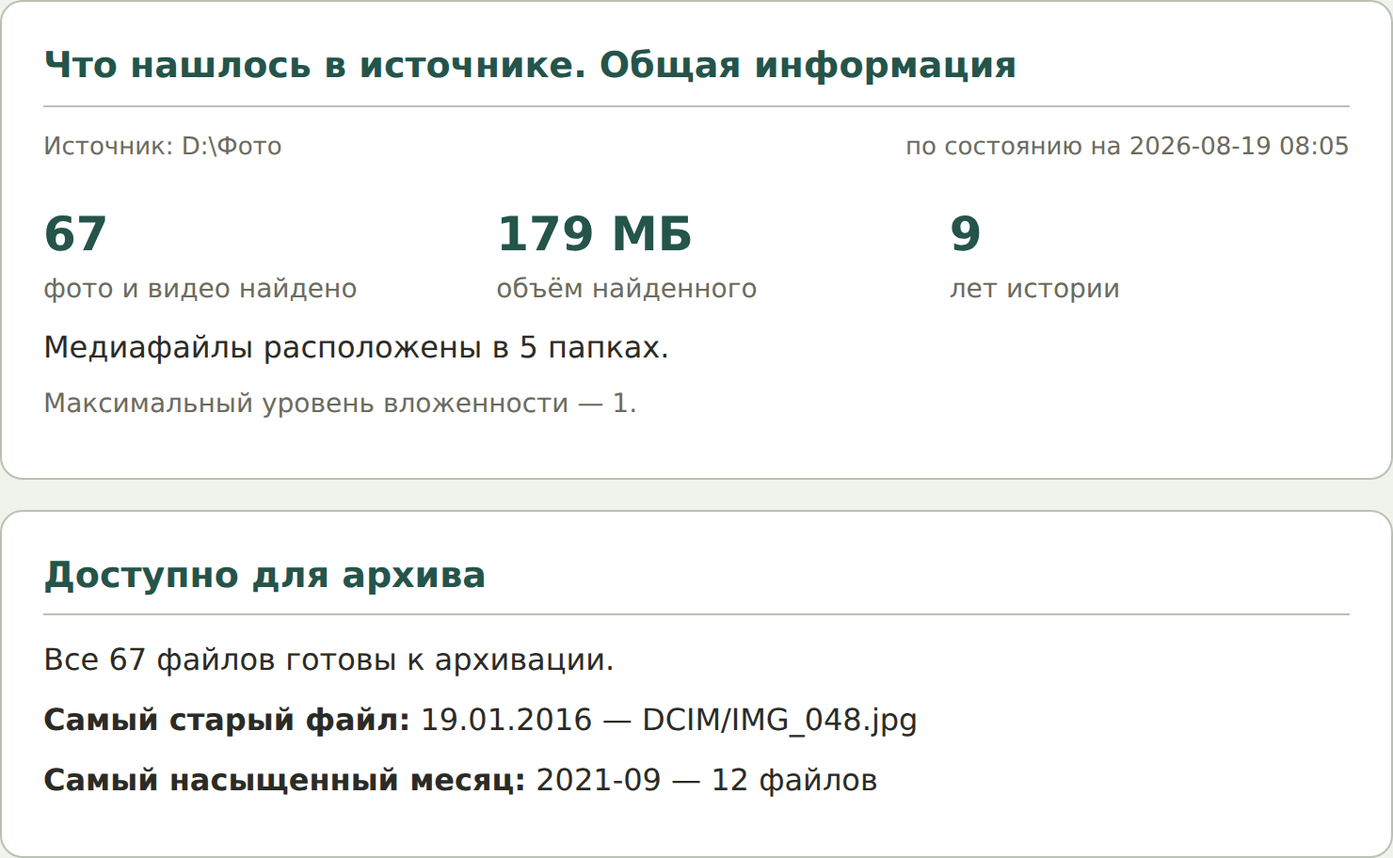
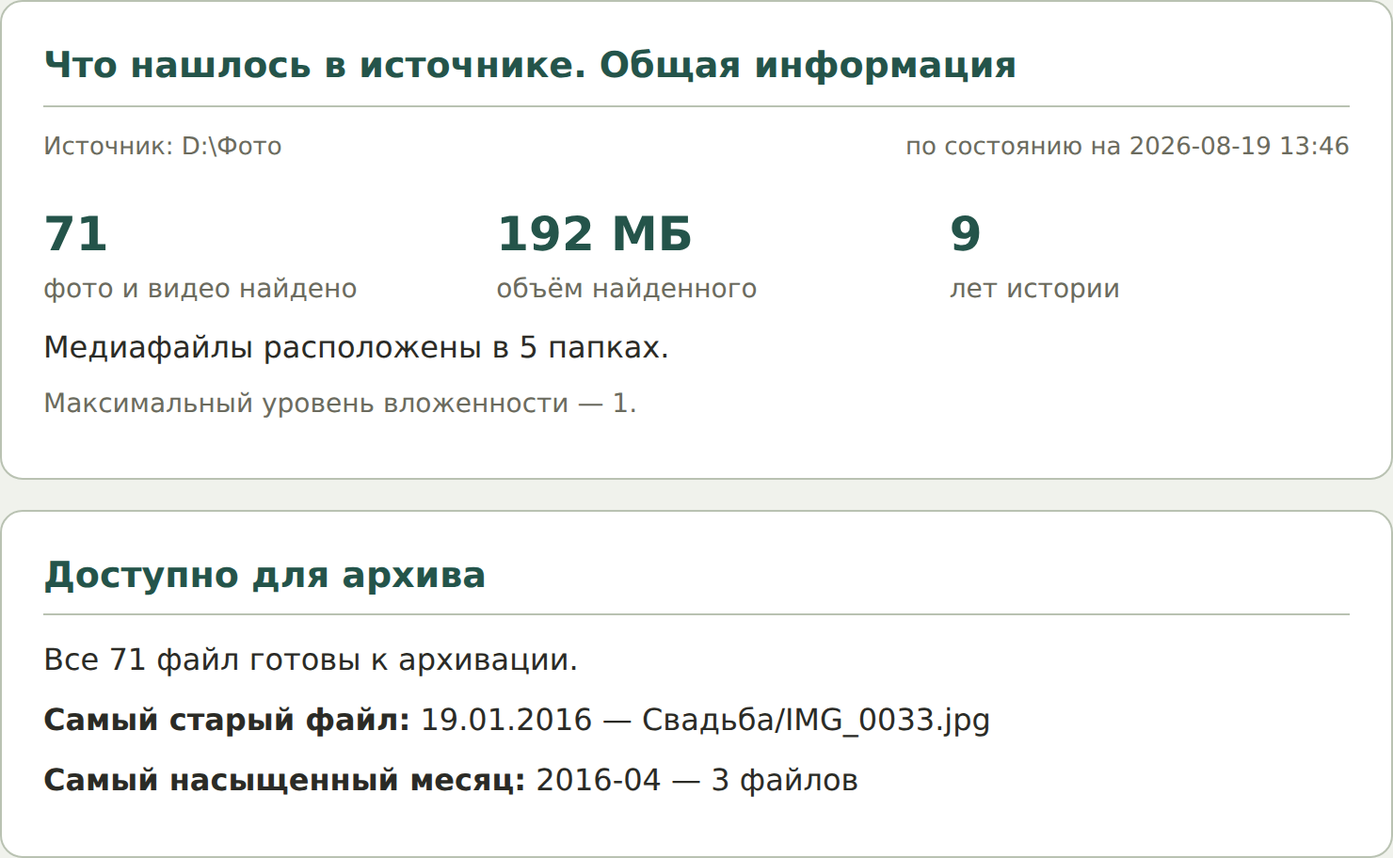
Пересобрать демо-отчёт: добавить видео/RAW в синтетику (живая находка пользователя)
Прежний report_sanitized.html/report-preview.png состояли только из JPEG (67 файлов,
100% фото) -- диаграммы "Тип медиа"/"Объём по категориям"/"Топ форматов" выглядели
неинформативно, один сплошной сегмент. Синтетический источник пересобран с добавлением
10 видео (MP4) и 10 RAW (DNG) -- 71 файл, реалистичное распределение по категориям.
Тот же пайплайн (analyze на актуальном dev-коде -> headless Chromium -> санитизация
пути SOURCE). Гео-формулировки (город на английском, страна на русском) не трогали --
по прямому решению пользователя, это поведение программы, не демо-артефакт.

Claude-Session: https://claude.ai/code/session_01TFr933xd6HK2sF22V6mAZi

diff --git a/report_sanitized.html b/report_sanitized.html
@@ -194,8 +194,8 @@ p { margin: 8px 0; }
 <body>
 <div class="sheet">
 <div class="report-brand"><a class="report-brand-logo" href="https://vo1012.github.io/PhotoArchive/" aria-label="PhotoArchive — сайт программы"><svg role="img" aria-label="PhotoArchive" xmlns="http://www.w3.org/2000/svg" viewBox="69 247 1240 245"><path fill="#24544A" d="M217.766 257.515C236.668 256.396 238.047 272.721 238.552 287.131C231.295 289.414 222.083 291.346 214.616 292.865C214.538 290.824 214.555 286.886 213.662 285.2C212.831 283.668 211.372 282.574 209.668 282.206C205.701 281.365 112.207 305.655 105.91 309.695C104.723 311.245 103.509 315.064 103.465 316.951C102.711 349.347 101.528 382.191 102.714 414.591C103.149 426.483 104.16 429.815 115.601 433.284C133.974 438.855 152.785 443.171 171.328 448.17C183.083 450.788 195.518 456.839 207.4 457.926C217.287 458.831 214.725 441.448 214.41 435.933C201.162 433.052 160.331 425.436 151.118 420.448C148.915 419.256 148.047 418.238 147.354 415.796C146.482 412.72 146.11 409.421 145.941 406.232C145.422 396.432 144.595 324.48 147.313 320.102C149.67 316.305 154.326 314.033 158.329 312.474C170.903 307.576 185.193 305.436 198.318 302.301L268.24 285.099C277.053 282.65 296.386 275.367 303.201 283.235C306.782 293.822 305.573 319.941 305.562 332.33L305.469 396.996C305.46 412.997 306.233 429.641 305.054 445.492C304.127 457.95 283.7 452.149 276.601 450.579C263.765 447.741 251.086 444.3 238.423 440.979C238.533 449.781 240.061 466.306 235.521 473.788C230.948 481.327 221.927 483.604 213.659 481.402C174.472 470.962 135.43 459.921 96.3845 448.98C76.6695 443.456 79.1011 425.03 79.2176 408.863L79.4179 376.099L79.209 335.907C79.1305 323.293 76.4228 295.711 90.9296 289.864C97.1259 287.366 106.644 285.091 113.247 283.371L152.45 273.512C170.698 268.955 200.094 260.41 217.766 257.515ZM165.376 329.188C163.169 345.182 164.353 383.218 164.593 400.712C177.518 388.249 190.368 375.708 203.142 363.092C206.995 363.449 223.685 381.015 227.627 384.91L237.753 375.481C254.271 390.714 270.355 406.329 287.01 421.484L286.997 349.256C287.019 341.907 288.4 303.683 285.215 299.646C283.351 298.68 282.578 298.915 280.479 299.045L210.386 316.64C199.416 319.359 174.614 324.929 165.376 329.188ZM210.071 401.359L216.091 395.631C218.012 393.899 220.44 391.583 222.405 390.009C217.733 385.402 211.041 378.419 206.008 374.602C207.333 382.991 209.154 393.052 210.071 401.359Z"/><path fill="#24544A" d="M249.721 324.857C258.677 323.037 267.412 328.822 269.234 337.778C271.055 346.733 265.273 355.471 256.318 357.294C247.361 359.118 238.621 353.333 236.799 344.375C234.977 335.417 240.763 326.678 249.721 324.857Z"/><path fill="#24544A" d="M427.039 316.155L427.514 316.136C450.662 315.29 480.502 314.655 487.21 342.958C487.773 345.336 488.041 347.947 488.077 350.388C488.307 359.814 484.741 368.937 478.181 375.708C465.818 388.296 448.734 386.692 432.52 386.683L426.459 386.657L426.554 421.313L406.485 421.295L406.393 316.477L427.039 316.155ZM426.567 369.687C439.205 369.809 451.881 371.394 462.644 364.333C468.66 356.488 470.512 345.544 461.812 338.791C453.811 332.58 436.309 333.758 426.553 334.306L426.567 369.687Z"/><path fill="#24544A" d="M613.719 345.677C635.34 343.179 654.952 358.53 657.72 380.119C660.489 401.709 645.385 421.512 623.833 424.551C609.65 426.55 595.487 420.766 586.758 409.409C578.029 398.052 576.083 382.877 581.664 369.685C587.245 356.492 599.49 347.321 613.719 345.677ZM622.523 406.818C634.38 404.478 642.094 392.969 639.755 381.111C637.416 369.254 625.909 361.538 614.052 363.876C602.193 366.214 594.476 377.724 596.816 389.583C599.155 401.442 610.665 409.159 622.523 406.818Z"/><path fill="#24544A" d="M750.441 346.263C772.043 343.238 791.981 358.369 794.882 379.989C797.783 401.609 782.538 421.461 760.903 424.237C739.443 426.992 719.788 411.897 716.911 390.452C714.033 369.006 729.014 349.263 750.441 346.263ZM758.877 406.512C770.6 404.849 778.778 394.03 777.181 382.297C775.583 370.564 764.81 362.325 753.069 363.857C741.236 365.401 732.917 376.279 734.527 388.105C736.138 399.931 747.061 408.188 758.877 406.512Z"/><path fill="#A85A2A" d="M858.662 316.135L867.39 316.102C871.238 323.63 874.81 332.871 877.974 340.729C888.852 367.749 901.137 394.384 911.879 421.439C905.115 421.499 898.35 421.514 891.586 421.486C879.963 394.318 869.01 366.556 857.235 339.676C845.434 365.82 834.567 394.604 822.809 421.38L802.296 421.329C817.594 386.444 832.63 351.445 847.403 316.335L858.662 316.135Z"/><path fill="#24544A" d="M495.912 316.488L514.568 316.506C514.907 329.734 514.667 344.021 514.698 357.335C522.547 350.397 528.457 346.861 539.155 346.582C565.716 345.892 566.06 370.174 565.791 389.949C565.649 400.37 565.621 410.945 565.51 421.274L546.952 421.28L546.975 393.911C547.052 382.694 549.16 363.917 532.988 363.837C527.945 363.798 523.092 365.766 519.501 369.307C511.801 377.035 514.538 408.713 514.477 421.299L495.871 421.356L495.912 316.488Z"/><path fill="#A85A2A" d="M1257.09 347.53C1259.27 347.346 1261.46 347.228 1263.65 347.177C1290.08 346.49 1298.83 367.857 1299.37 390.455L1245.11 390.51C1251.97 412.543 1268.65 412.433 1285.44 400.324L1296.19 410.916C1273.34 430.63 1239.32 428.953 1229.09 397.822C1225.74 387.694 1226.63 376.645 1231.54 367.177C1237.2 356.33 1245.84 351.006 1257.09 347.53ZM1245.08 377.871L1269.21 377.766L1282.09 377.704C1276.7 364.956 1272.95 361.146 1258.37 362.291C1250.48 366.368 1248.11 369.365 1245.08 377.871Z"/><path fill="#A85A2A" d="M1040.68 316.469L1058.71 316.426L1058.86 357.01C1069.76 346.625 1089.23 341.476 1099.96 353.084C1112.13 366.256 1108.11 404.142 1107.96 421.315L1090.48 421.337L1090.42 392.708L1090.43 391.884C1090.52 385.035 1090.64 369.628 1085.73 366.979C1065.07 355.823 1056.88 373.247 1058.02 390.707C1058.76 402 1058.1 412.598 1058.15 421.307L1040.76 421.365C1040.52 386.4 1040.49 351.434 1040.68 316.469Z"/><path fill="#A85A2A" d="M328.581 295.646C339.189 295.431 341.166 299.229 341.175 309.705C341.214 352.095 341.962 394.73 340.891 437.082C340.825 439.693 336.68 442.401 334.62 443.767C324.059 444.523 322.032 439.624 321.909 430.032C321.443 393.689 321.619 357.312 321.555 320.964C321.545 315.13 321.609 309.034 322.283 303.253C322.728 299.496 325.776 297.607 328.581 295.646Z"/><path fill="#A85A2A" d="M1147.39 348.717L1166.82 348.613C1173.54 363.377 1181.21 384.713 1187.31 400.225C1194.06 387.299 1202.98 363.129 1208.73 348.762L1227.94 348.746L1221.17 364.681C1213.35 383.677 1205.22 402.542 1196.77 421.267L1178.4 421.329C1167.78 397.824 1157.51 372.57 1147.39 348.717Z"/><path fill="#24544A" d="M674.568 330.086L693.307 330.108L693.386 348.805L712.371 348.739C712.574 353.858 712.447 359.509 712.428 364.677C706.047 364.566 699.666 364.543 693.285 364.607C693.326 373.52 692.823 382.432 692.717 391.347C692.661 396.066 692.949 401.778 697.349 404.628C701.959 407.614 706.993 405.927 711.941 404.883L712.236 414.247L712.328 414.856C714.55 429.997 684.149 423.191 680.101 417.45C672.034 406.012 674.371 378.28 674.528 364.835L663.314 364.699L663.191 348.836L674.6 348.699L674.568 330.086Z"/><path fill="#A85A2A" d="M1000.92 346.925C1013.3 344.942 1022.93 351.82 1031.63 359.396C1027.97 363.176 1024.33 367.435 1020.83 371.4C1018.88 369.818 1016.92 368.299 1014.89 366.823C998.87 355.188 979.398 373.255 983.968 390.756C985.628 397.111 988.237 401.443 993.798 405.207C1002.99 411.428 1012.52 404.445 1020.95 400.736C1021.37 400.555 1022.54 401.585 1023.05 401.951C1025.74 404.981 1029.03 408.001 1031.98 410.83C1025.1 417.3 1019.01 421.784 1009.28 423.33C999.111 425.018 988.691 422.542 980.368 416.46C953.289 396.305 963.683 351.79 1000.92 346.925Z"/><path fill="#B9C2B2" d="M361.379 315.244C362.919 315.41 364.427 315.796 365.858 316.389C367.896 317.211 369.569 318.625 370.326 320.733C372.557 326.942 372.39 417.383 369.762 422.168C368.36 424.72 365.026 425.34 362.448 425.945C361.275 425.831 360.151 425.546 359.027 425.196C357.226 424.634 355.268 423.55 354.454 421.752C352.396 417.206 352.257 326.757 354.367 321.013C355.564 317.756 358.447 316.528 361.379 315.244Z"/><path fill="#A85A2A" d="M951.301 348.192C954.892 347.998 959.374 348.103 963.036 348.087C962.942 353.937 962.918 359.787 962.965 365.637C926.995 361.205 936.811 395.762 936.381 421.412L926.012 421.468C923.601 421.505 920.912 421.773 918.716 420.91C918.057 415.491 918.418 401.364 918.422 395.359L918.296 348.739L935.904 348.691L935.987 356.72C941.481 351.425 943.899 349.838 951.301 348.192Z"/><path fill="#A85A2A" d="M1122.01 348.726L1140.22 348.623L1140.18 421.339L1122.09 421.385C1122.33 397.357 1122.04 372.798 1122.01 348.726Z"/><path fill="#24544A" d="M853.487 379.306C857.953 378.08 862.734 379.352 866.001 382.635C869.267 385.918 870.515 390.706 869.266 395.166C868.017 399.626 864.466 403.069 859.969 404.179C853.141 405.864 846.227 401.748 844.453 394.942C842.68 388.136 846.705 381.168 853.487 379.306Z"/><path fill="#24544A" d="M1128.97 312.835C1135.72 311.203 1142.52 315.317 1144.21 322.052C1145.89 328.787 1141.84 335.623 1135.12 337.367C1128.32 339.132 1121.38 335.016 1119.67 328.202C1117.97 321.387 1122.14 314.487 1128.97 312.835Z"/></svg></a><a class="report-brand-url" href="https://vo1012.github.io/PhotoArchive/">vo1012.github.io/PhotoArchive</a></div>
-<p class="trust-banner">Оригиналы не изменены и не удалены — программа работает только с копиями.</p><ul class="trust-list"><li>Реальных изменений на диске нет — это предпросмотр.</li></ul><div class="card"><h2>Что нашлось в источнике. Общая информация</h2><div class="report-meta"><div class="report-meta-paths">Источник: D:\Фото</div><div class="report-meta-date">по состоянию на 2026-08-19 08:05</div></div><div class="stat-row"><div class="stat"><div class="value">67</div><div class="label">фото и видео найдено</div></div><div class="stat"><div class="value">179 МБ</div><div class="label">объём найденного</div></div><div class="stat"><div class="value">9</div><div class="label">лет истории</div></div></div><p>Медиафайлы расположены в 5 папках.</p><p class="muted">Максимальный уровень вложенности — 1.</p></div><div class="card"><h2>Доступно для архива</h2><p>Все 67 файлов готовы к архивации.</p><p><b>Самый старый файл:</b> 19.01.2016 — DCIM/IMG_048.jpg</p><p><b>Самый насыщенный месяц:</b> 2021-09 — 12 файлов</p></div><div class="grid-3"><div class="card"><h2>Тип медиа</h2><div class="chart-block"><svg viewBox="0 0 170 170" width="170" height="170" role="img" aria-label="Диаграмма"><circle cx="85.0" cy="85.0" r="84.00" fill="#24544A" stroke="#fff" stroke-width="1.5"/></svg><div class="legend"><div class="legend-row"><span class="swatch" style="background:#24544A"></span>Фото — 67 файлов (100%)</div></div></div></div><div class="card"><h2>Объём по категориям</h2><div class="chart-block"><svg viewBox="0 0 170 170" width="170" height="170" role="img" aria-label="Диаграмма"><circle cx="85.0" cy="85.0" r="84.00" fill="#24544A" stroke="#fff" stroke-width="1.5"/></svg><div class="legend"><div class="legend-row"><span class="swatch" style="background:#24544A"></span>Фото — 179 МБ (100%)</div></div></div></div><div class="card"><h2>Надёжность дат — фото и видео <span class="h2-note">(без RAW)</span></h2><div class="chart-block"><svg viewBox="0 0 170 170" width="170" height="170" role="img" aria-label="Диаграмма"><path d="M85.00,85.00 L85.00,1.00 A84.00,84.00 0 1 1 77.13,1.37 Z" fill="#24544A" stroke="#fff" stroke-width="1.5"/><path d="M85.00,85.00 L77.13,1.37 A84.00,84.00 0 0 1 85.00,1.00 Z" fill="#6E8C74" stroke="#fff" stroke-width="1.5"/></svg><div class="legend"><div class="legend-row"><span class="swatch" style="background:#24544A"></span>Точная (EXIF) — 66 файлов (99%)</div><div class="legend-row"><span class="swatch" style="background:#6E8C74"></span>Оценочная — 1 файл (1%)</div></div></div></div></div><div class="grid-3-formats"><div class="card"><h2>Топ форматов — фото</h2><svg viewBox="0 0 300 38" width="100%" height="38" role="img" aria-label="Топ форматов"><text x="82" y="23.0" font-size="12" text-anchor="end" fill="#2B2B26">JPG</text><rect x="90" y="8" width="140.0" height="22" fill="#24544A" rx="3"/><text x="236.0" y="23.0" font-size="12" fill="#6B6B5E">67 файлов</text></svg></div></div><div class="card"><h2>Медиафайлы по годам — фото и видео <span class="h2-note">(без учёта RAW)</span></h2><p class="muted"><span style="color:#24544A">■</span> фото &nbsp; <span style="color:#A85A2A">■</span> видео</p><svg viewBox="0 0 680 278" width="100%" height="278" role="img" aria-label="Медиафайлы по годам, фото и видео раздельно"><text x="46" y="23.0" font-size="12" text-anchor="end" fill="#2B2B26">2016</text><rect x="54" y="8.0" width="165.0" height="10.0" fill="#24544A" rx="2"/><text x="225.0" y="15.5" font-size="11" fill="#6B6B5E">6 файлов</text><text x="46" y="53.0" font-size="12" text-anchor="end" fill="#2B2B26">2017</text><rect x="54" y="38.0" width="82.5" height="10.0" fill="#24544A" rx="2"/><text x="142.5" y="45.5" font-size="11" fill="#6B6B5E">3 файла</text><text x="46" y="83.0" font-size="12" text-anchor="end" fill="#2B2B26">2018</text><rect x="54" y="68.0" width="220.0" height="10.0" fill="#24544A" rx="2"/><text x="280.0" y="75.5" font-size="11" fill="#6B6B5E">8 файлов</text><text x="46" y="113.0" font-size="12" text-anchor="end" fill="#2B2B26">2019</text><rect x="54" y="98.0" width="302.5" height="10.0" fill="#24544A" rx="2"/><text x="362.5" y="105.5" font-size="11" fill="#6B6B5E">11 файлов</text><text x="46" y="143.0" font-size="12" text-anchor="end" fill="#2B2B26">2020</text><rect x="54" y="128.0" width="110.0" height="10.0" fill="#24544A" rx="2"/><text x="170.0" y="135.5" font-size="11" fill="#6B6B5E">4 файла</text><text x="46" y="173.0" font-size="12" text-anchor="end" fill="#2B2B26">2021</text><rect x="54" y="158.0" width="330.0" height="10.0" fill="#24544A" rx="2"/><text x="390.0" y="165.5" font-size="11" fill="#6B6B5E">12 файлов</text><text x="46" y="203.0" font-size="12" text-anchor="end" fill="#2B2B26">2022</text><rect x="54" y="188.0" width="82.5" height="10.0" fill="#24544A" rx="2"/><text x="142.5" y="195.5" font-size="11" fill="#6B6B5E">3 файла</text><text x="46" y="233.0" font-size="12" text-anchor="end" fill="#2B2B26">2023</text><rect x="54" y="218.0" width="467.5" height="10.0" fill="#24544A" rx="2"/><text x="527.5" y="225.5" font-size="11" fill="#6B6B5E">17 файлов</text><text x="46" y="263.0" font-size="12" text-anchor="end" fill="#2B2B26">2024</text><rect x="54" y="248.0" width="82.5" height="10.0" fill="#24544A" rx="2"/><text x="142.5" y="255.5" font-size="11" fill="#6B6B5E">3 файла</text></svg></div><div class="card"><h2>География</h2><p class="muted"><b>По вашим местам</b></p><svg viewBox="0 0 680 68" width="100%" height="68" role="img" aria-label="География — свои места"><text x="162" y="23.0" font-size="12" text-anchor="end" fill="#2B2B26">Moscow</text><rect x="170" y="8" width="440.0" height="22" fill="#24544A" rx="3"/><text x="616.0" y="23.0" font-size="12" fill="#6B6B5E">43 файла</text><text x="162" y="53.0" font-size="12" text-anchor="end" fill="#2B2B26">Sochi</text><rect x="170" y="38" width="204.7" height="22" fill="#24544A" rx="3"/><text x="380.7" y="53.0" font-size="12" fill="#6B6B5E">20 файлов</text></svg><p class="muted"><b>Остальной мир</b></p><svg viewBox="0 0 680 38" width="100%" height="38" role="img" aria-label="География — остальной мир"><text x="162" y="23.0" font-size="12" text-anchor="end" fill="#2B2B26">Франция</text><rect x="170" y="8" width="30.7" height="22" fill="#A85A2A" rx="3"/><text x="206.7" y="23.0" font-size="12" fill="#6B6B5E">3 файла</text></svg></div><div class="card"><h2>Топ камер/устройств съёмки</h2><svg viewBox="0 0 680 128" width="100%" height="128" role="img" aria-label="Топ камер/устройств съёмки"><text x="162" y="23.0" font-size="12" text-anchor="end" fill="#2B2B26">Apple iPhone 13</text><rect x="170" y="8" width="440.0" height="22" fill="#24544A" rx="3"/><text x="616.0" y="23.0" font-size="12" fill="#6B6B5E">19 файлов</text><text x="162" y="53.0" font-size="12" text-anchor="end" fill="#2B2B26">Canon EOS R6</text><rect x="170" y="38" width="416.8" height="22" fill="#24544A" rx="3"/><text x="592.8" y="53.0" font-size="12" fill="#6B6B5E">18 файлов</text><text x="162" y="83.0" font-size="12" text-anchor="end" fill="#2B2B26">NIKON CORPORATION NI…</text><rect x="170" y="68" width="370.5" height="22" fill="#24544A" rx="3"/><text x="546.5" y="83.0" font-size="12" fill="#6B6B5E">16 файлов</text><text x="162" y="113.0" font-size="12" text-anchor="end" fill="#2B2B26">Canon EOS 80D</text><rect x="170" y="98" width="324.2" height="22" fill="#24544A" rx="3"/><text x="500.2" y="113.0" font-size="12" fill="#6B6B5E">14 файлов</text></svg></div><div class="card"><h2>Структура источника</h2><p class="subtitle">Как сейчас реально разложены файлы в источнике — не то, куда программа их поместит при сборке архива (см. «Структура архива» в паспорте после сборки). Архивы показаны такими же ветками, что и папки.</p><p class="muted">Числа рядом с каждой папкой/архивом — количество фото/видео/RAW-файлов (например, «1/3/0» — 1 фото, 3 видео, 0 RAW).</p><ul class="tree"><li><span class="tree-ico"></span><span class="tree-name">D:\Фото</span><ul><li><span class="tree-ico"></span><span class="tree-name">DCIM</span><span class="tree-stat">20/0/0 файлов</span></li><li><span class="tree-ico"></span><span class="tree-name">Дача</span><span class="tree-stat">10/0/0 файлов</span></li><li><span class="tree-ico"></span><span class="tree-name">Море</span><span class="tree-stat">16/0/0 файлов</span></li><li><span class="tree-ico"></span><span class="tree-name">Природа</span><span class="tree-stat">10/0/0 файлов</span></li><li><span class="tree-ico"></span><span class="tree-name">Свадьба</span><span class="tree-stat">11/0/0 файлов</span></li></ul></li></ul></div><div class="card"><h2>Что стоит проверить и рекомендации</h2><ul class="checklist"><li><div class="title">1 файл — дата определена неточно или не определена вовсе</div><div class="detail">Не проблема для дальнейшей обработки — эти файлы всё равно будут сохранены в архиве корректно. Влияет только на автоматическую сортировку по дате (в какую папку ByDate/ГГГГ-ММ они попадут).<br>Разбивка:<br>1 файл — оценочно, по соседним файлам в папке</div></li></ul></div>
-<div class="footer">Сформировано PhotoArchive 0.4.2 · 2026-08-19 08:05</div>
+<p class="trust-banner">Оригиналы не изменены и не удалены — программа работает только с копиями.</p><ul class="trust-list"><li>Реальных изменений на диске нет — это предпросмотр.</li></ul><div class="card"><h2>Что нашлось в источнике. Общая информация</h2><div class="report-meta"><div class="report-meta-paths">Источник: D:\Фото</div><div class="report-meta-date">по состоянию на 2026-08-19 13:46</div></div><div class="stat-row"><div class="stat"><div class="value">71</div><div class="label">фото и видео найдено</div></div><div class="stat"><div class="value">192 МБ</div><div class="label">объём найденного</div></div><div class="stat"><div class="value">9</div><div class="label">лет истории</div></div></div><p>Медиафайлы расположены в 5 папках.</p><p class="muted">Максимальный уровень вложенности — 1.</p></div><div class="card"><h2>Доступно для архива</h2><p>Все 71 файл готовы к архивации.</p><p><b>Самый старый файл:</b> 19.01.2016 — Свадьба/IMG_0033.jpg</p><p><b>Самый насыщенный месяц:</b> 2016-04 — 3 файлов</p></div><div class="grid-3"><div class="card"><h2>Тип медиа</h2><div class="chart-block"><svg viewBox="0 0 170 170" width="170" height="170" role="img" aria-label="Диаграмма"><path d="M85.00,85.00 L85.00,1.00 A84.00,84.00 0 1 1 2.66,101.62 Z" fill="#24544A" stroke="#fff" stroke-width="1.5"/><path d="M85.00,85.00 L2.66,101.62 A84.00,84.00 0 0 1 19.99,31.80 Z" fill="#A85A2A" stroke="#fff" stroke-width="1.5"/><path d="M85.00,85.00 L19.99,31.80 A84.00,84.00 0 0 1 85.00,1.00 Z" fill="#6E8C74" stroke="#fff" stroke-width="1.5"/></svg><div class="legend"><div class="legend-row"><span class="swatch" style="background:#24544A"></span>Фото — 51 файл (72%)</div><div class="legend-row"><span class="swatch" style="background:#A85A2A"></span>Видео — 10 файлов (14%)</div><div class="legend-row"><span class="swatch" style="background:#6E8C74"></span>RAW — 10 файлов (14%)</div></div></div></div><div class="card"><h2>Объём по категориям</h2><div class="chart-block"><svg viewBox="0 0 170 170" width="170" height="170" role="img" aria-label="Диаграмма"><path d="M85.00,85.00 L85.00,1.00 A84.00,84.00 0 0 1 132.61,154.21 Z" fill="#24544A" stroke="#fff" stroke-width="1.5"/><path d="M85.00,85.00 L132.61,154.21 A84.00,84.00 0 0 1 121.22,160.79 Z" fill="#A85A2A" stroke="#fff" stroke-width="1.5"/><path d="M85.00,85.00 L121.22,160.79 A84.00,84.00 0 1 1 85.00,1.00 Z" fill="#6E8C74" stroke="#fff" stroke-width="1.5"/></svg><div class="legend"><div class="legend-row"><span class="swatch" style="background:#24544A"></span>Фото — 78 МБ (40%)</div><div class="legend-row"><span class="swatch" style="background:#A85A2A"></span>Видео — 5 МБ (2%)</div><div class="legend-row"><span class="swatch" style="background:#6E8C74"></span>RAW — 110 МБ (57%)</div></div></div></div><div class="card"><h2>Надёжность дат — фото и видео <span class="h2-note">(без RAW)</span></h2><div class="chart-block"><svg viewBox="0 0 170 170" width="170" height="170" role="img" aria-label="Диаграмма"><circle cx="85.0" cy="85.0" r="84.00" fill="#24544A" stroke="#fff" stroke-width="1.5"/></svg><div class="legend"><div class="legend-row"><span class="swatch" style="background:#24544A"></span>Точная (EXIF) — 61 файл (100%)</div></div></div></div></div><div class="grid-3-formats"><div class="card"><h2>Топ форматов — фото</h2><svg viewBox="0 0 300 38" width="100%" height="38" role="img" aria-label="Топ форматов"><text x="82" y="23.0" font-size="12" text-anchor="end" fill="#2B2B26">JPG</text><rect x="90" y="8" width="140.0" height="22" fill="#24544A" rx="3"/><text x="236.0" y="23.0" font-size="12" fill="#6B6B5E">51 файл</text></svg></div><div class="card"><h2>Топ форматов — видео</h2><svg viewBox="0 0 300 38" width="100%" height="38" role="img" aria-label="Топ форматов"><text x="82" y="23.0" font-size="12" text-anchor="end" fill="#2B2B26">MP4</text><rect x="90" y="8" width="140.0" height="22" fill="#A85A2A" rx="3"/><text x="236.0" y="23.0" font-size="12" fill="#6B6B5E">10 файлов</text></svg></div><div class="card"><h2>Топ форматов — RAW</h2><svg viewBox="0 0 300 38" width="100%" height="38" role="img" aria-label="Топ форматов"><text x="82" y="23.0" font-size="12" text-anchor="end" fill="#2B2B26">DNG</text><rect x="90" y="8" width="140.0" height="22" fill="#24544A" rx="3"/><text x="236.0" y="23.0" font-size="12" fill="#6B6B5E">10 файлов</text></svg></div></div><div class="card"><h2>Медиафайлы по годам — фото и видео <span class="h2-note">(без учёта RAW)</span></h2><p class="muted"><span style="color:#24544A">■</span> фото &nbsp; <span style="color:#A85A2A">■</span> видео</p><svg viewBox="0 0 680 278" width="100%" height="278" role="img" aria-label="Медиафайлы по годам, фото и видео раздельно"><text x="46" y="23.0" font-size="12" text-anchor="end" fill="#2B2B26">2016</text><rect x="54" y="8.0" width="467.5" height="10.0" fill="#24544A" rx="2"/><text x="527.5" y="15.5" font-size="11" fill="#6B6B5E">10 файлов</text><rect x="54" y="20.0" width="46.8" height="10.0" fill="#A85A2A" rx="2"/><text x="106.8" y="27.5" font-size="11" fill="#6B6B5E">1 файл</text><text x="46" y="53.0" font-size="12" text-anchor="end" fill="#2B2B26">2017</text><rect x="54" y="38.0" width="327.2" height="10.0" fill="#24544A" rx="2"/><text x="387.2" y="45.5" font-size="11" fill="#6B6B5E">7 файлов</text><rect x="54" y="50.0" width="46.8" height="10.0" fill="#A85A2A" rx="2"/><text x="106.8" y="57.5" font-size="11" fill="#6B6B5E">1 файл</text><text x="46" y="83.0" font-size="12" text-anchor="end" fill="#2B2B26">2018</text><rect x="54" y="68.0" width="46.8" height="10.0" fill="#24544A" rx="2"/><text x="106.8" y="75.5" font-size="11" fill="#6B6B5E">1 файл</text><rect x="54" y="80.0" width="93.5" height="10.0" fill="#A85A2A" rx="2"/><text x="153.5" y="87.5" font-size="11" fill="#6B6B5E">2 файла</text><text x="46" y="113.0" font-size="12" text-anchor="end" fill="#2B2B26">2019</text><rect x="54" y="98.0" width="233.8" height="10.0" fill="#24544A" rx="2"/><text x="293.8" y="105.5" font-size="11" fill="#6B6B5E">5 файлов</text><rect x="54" y="110.0" width="46.8" height="10.0" fill="#A85A2A" rx="2"/><text x="106.8" y="117.5" font-size="11" fill="#6B6B5E">1 файл</text><text x="46" y="143.0" font-size="12" text-anchor="end" fill="#2B2B26">2020</text><rect x="54" y="128.0" width="187.0" height="10.0" fill="#24544A" rx="2"/><text x="247.0" y="135.5" font-size="11" fill="#6B6B5E">4 файла</text><text x="46" y="173.0" font-size="12" text-anchor="end" fill="#2B2B26">2021</text><rect x="54" y="158.0" width="233.8" height="10.0" fill="#24544A" rx="2"/><text x="293.8" y="165.5" font-size="11" fill="#6B6B5E">5 файлов</text><rect x="54" y="170.0" width="140.2" height="10.0" fill="#A85A2A" rx="2"/><text x="200.2" y="177.5" font-size="11" fill="#6B6B5E">3 файла</text><text x="46" y="203.0" font-size="12" text-anchor="end" fill="#2B2B26">2022</text><rect x="54" y="188.0" width="327.2" height="10.0" fill="#24544A" rx="2"/><text x="387.2" y="195.5" font-size="11" fill="#6B6B5E">7 файлов</text><rect x="54" y="200.0" width="46.8" height="10.0" fill="#A85A2A" rx="2"/><text x="106.8" y="207.5" font-size="11" fill="#6B6B5E">1 файл</text><text x="46" y="233.0" font-size="12" text-anchor="end" fill="#2B2B26">2023</text><rect x="54" y="218.0" width="233.8" height="10.0" fill="#24544A" rx="2"/><text x="293.8" y="225.5" font-size="11" fill="#6B6B5E">5 файлов</text><text x="46" y="263.0" font-size="12" text-anchor="end" fill="#2B2B26">2024</text><rect x="54" y="248.0" width="327.2" height="10.0" fill="#24544A" rx="2"/><text x="387.2" y="255.5" font-size="11" fill="#6B6B5E">7 файлов</text><rect x="54" y="260.0" width="46.8" height="10.0" fill="#A85A2A" rx="2"/><text x="106.8" y="267.5" font-size="11" fill="#6B6B5E">1 файл</text></svg></div><div class="card"><h2>География</h2><p class="muted"><b>По вашим местам</b></p><svg viewBox="0 0 680 68" width="100%" height="68" role="img" aria-label="География — свои места"><text x="162" y="23.0" font-size="12" text-anchor="end" fill="#2B2B26">Moscow</text><rect x="170" y="8" width="440.0" height="22" fill="#24544A" rx="3"/><text x="616.0" y="23.0" font-size="12" fill="#6B6B5E">43 файла</text><text x="162" y="53.0" font-size="12" text-anchor="end" fill="#2B2B26">Sochi</text><rect x="170" y="38" width="266.0" height="22" fill="#24544A" rx="3"/><text x="442.0" y="53.0" font-size="12" fill="#6B6B5E">26 файлов</text></svg><p class="muted"><b>Остальной мир</b></p><svg viewBox="0 0 680 38" width="100%" height="38" role="img" aria-label="География — остальной мир"><text x="162" y="23.0" font-size="12" text-anchor="end" fill="#2B2B26">Франция</text><rect x="170" y="8" width="20.5" height="22" fill="#A85A2A" rx="3"/><text x="196.5" y="23.0" font-size="12" fill="#6B6B5E">2 файла</text></svg></div><div class="card"><h2>Топ камер/устройств съёмки</h2><svg viewBox="0 0 680 128" width="100%" height="128" role="img" aria-label="Топ камер/устройств съёмки"><text x="162" y="23.0" font-size="12" text-anchor="end" fill="#2B2B26">Canon EOS R6</text><rect x="170" y="8" width="440.0" height="22" fill="#24544A" rx="3"/><text x="616.0" y="23.0" font-size="12" fill="#6B6B5E">19 файлов</text><text x="162" y="53.0" font-size="12" text-anchor="end" fill="#2B2B26">Canon EOS 80D</text><rect x="170" y="38" width="393.7" height="22" fill="#24544A" rx="3"/><text x="569.7" y="53.0" font-size="12" fill="#6B6B5E">17 файлов</text><text x="162" y="83.0" font-size="12" text-anchor="end" fill="#2B2B26">NIKON CORPORATION NI…</text><rect x="170" y="68" width="301.1" height="22" fill="#24544A" rx="3"/><text x="477.1" y="83.0" font-size="12" fill="#6B6B5E">13 файлов</text><text x="162" y="113.0" font-size="12" text-anchor="end" fill="#2B2B26">Apple iPhone 13</text><rect x="170" y="98" width="277.9" height="22" fill="#24544A" rx="3"/><text x="453.9" y="113.0" font-size="12" fill="#6B6B5E">12 файлов</text></svg></div><div class="card"><h2>Структура источника</h2><p class="subtitle">Как сейчас реально разложены файлы в источнике — не то, куда программа их поместит при сборке архива (см. «Структура архива» в паспорте после сборки). Архивы показаны такими же ветками, что и папки.</p><p class="muted">Числа рядом с каждой папкой/архивом — количество фото/видео/RAW-файлов (например, «1/3/0» — 1 фото, 3 видео, 0 RAW).</p><ul class="tree"><li><span class="tree-ico"></span><span class="tree-name">D:\Фото</span><ul><li><span class="tree-ico"></span><span class="tree-name">DCIM</span><span class="tree-stat">11/2/1 файлов</span></li><li><span class="tree-ico"></span><span class="tree-name">Дача</span><span class="tree-stat">12/0/2 файлов</span></li><li><span class="tree-ico"></span><span class="tree-name">Море</span><span class="tree-stat">5/0/2 файлов</span></li><li><span class="tree-ico"></span><span class="tree-name">Природа</span><span class="tree-stat">8/5/2 файлов</span></li><li><span class="tree-ico"></span><span class="tree-name">Свадьба</span><span class="tree-stat">15/3/3 файлов</span></li></ul></li></ul></div>
+<div class="footer">Сформировано PhotoArchive 0.5.0 · 2026-08-19 13:46</div>
 </div>
 </body>
 </html>
